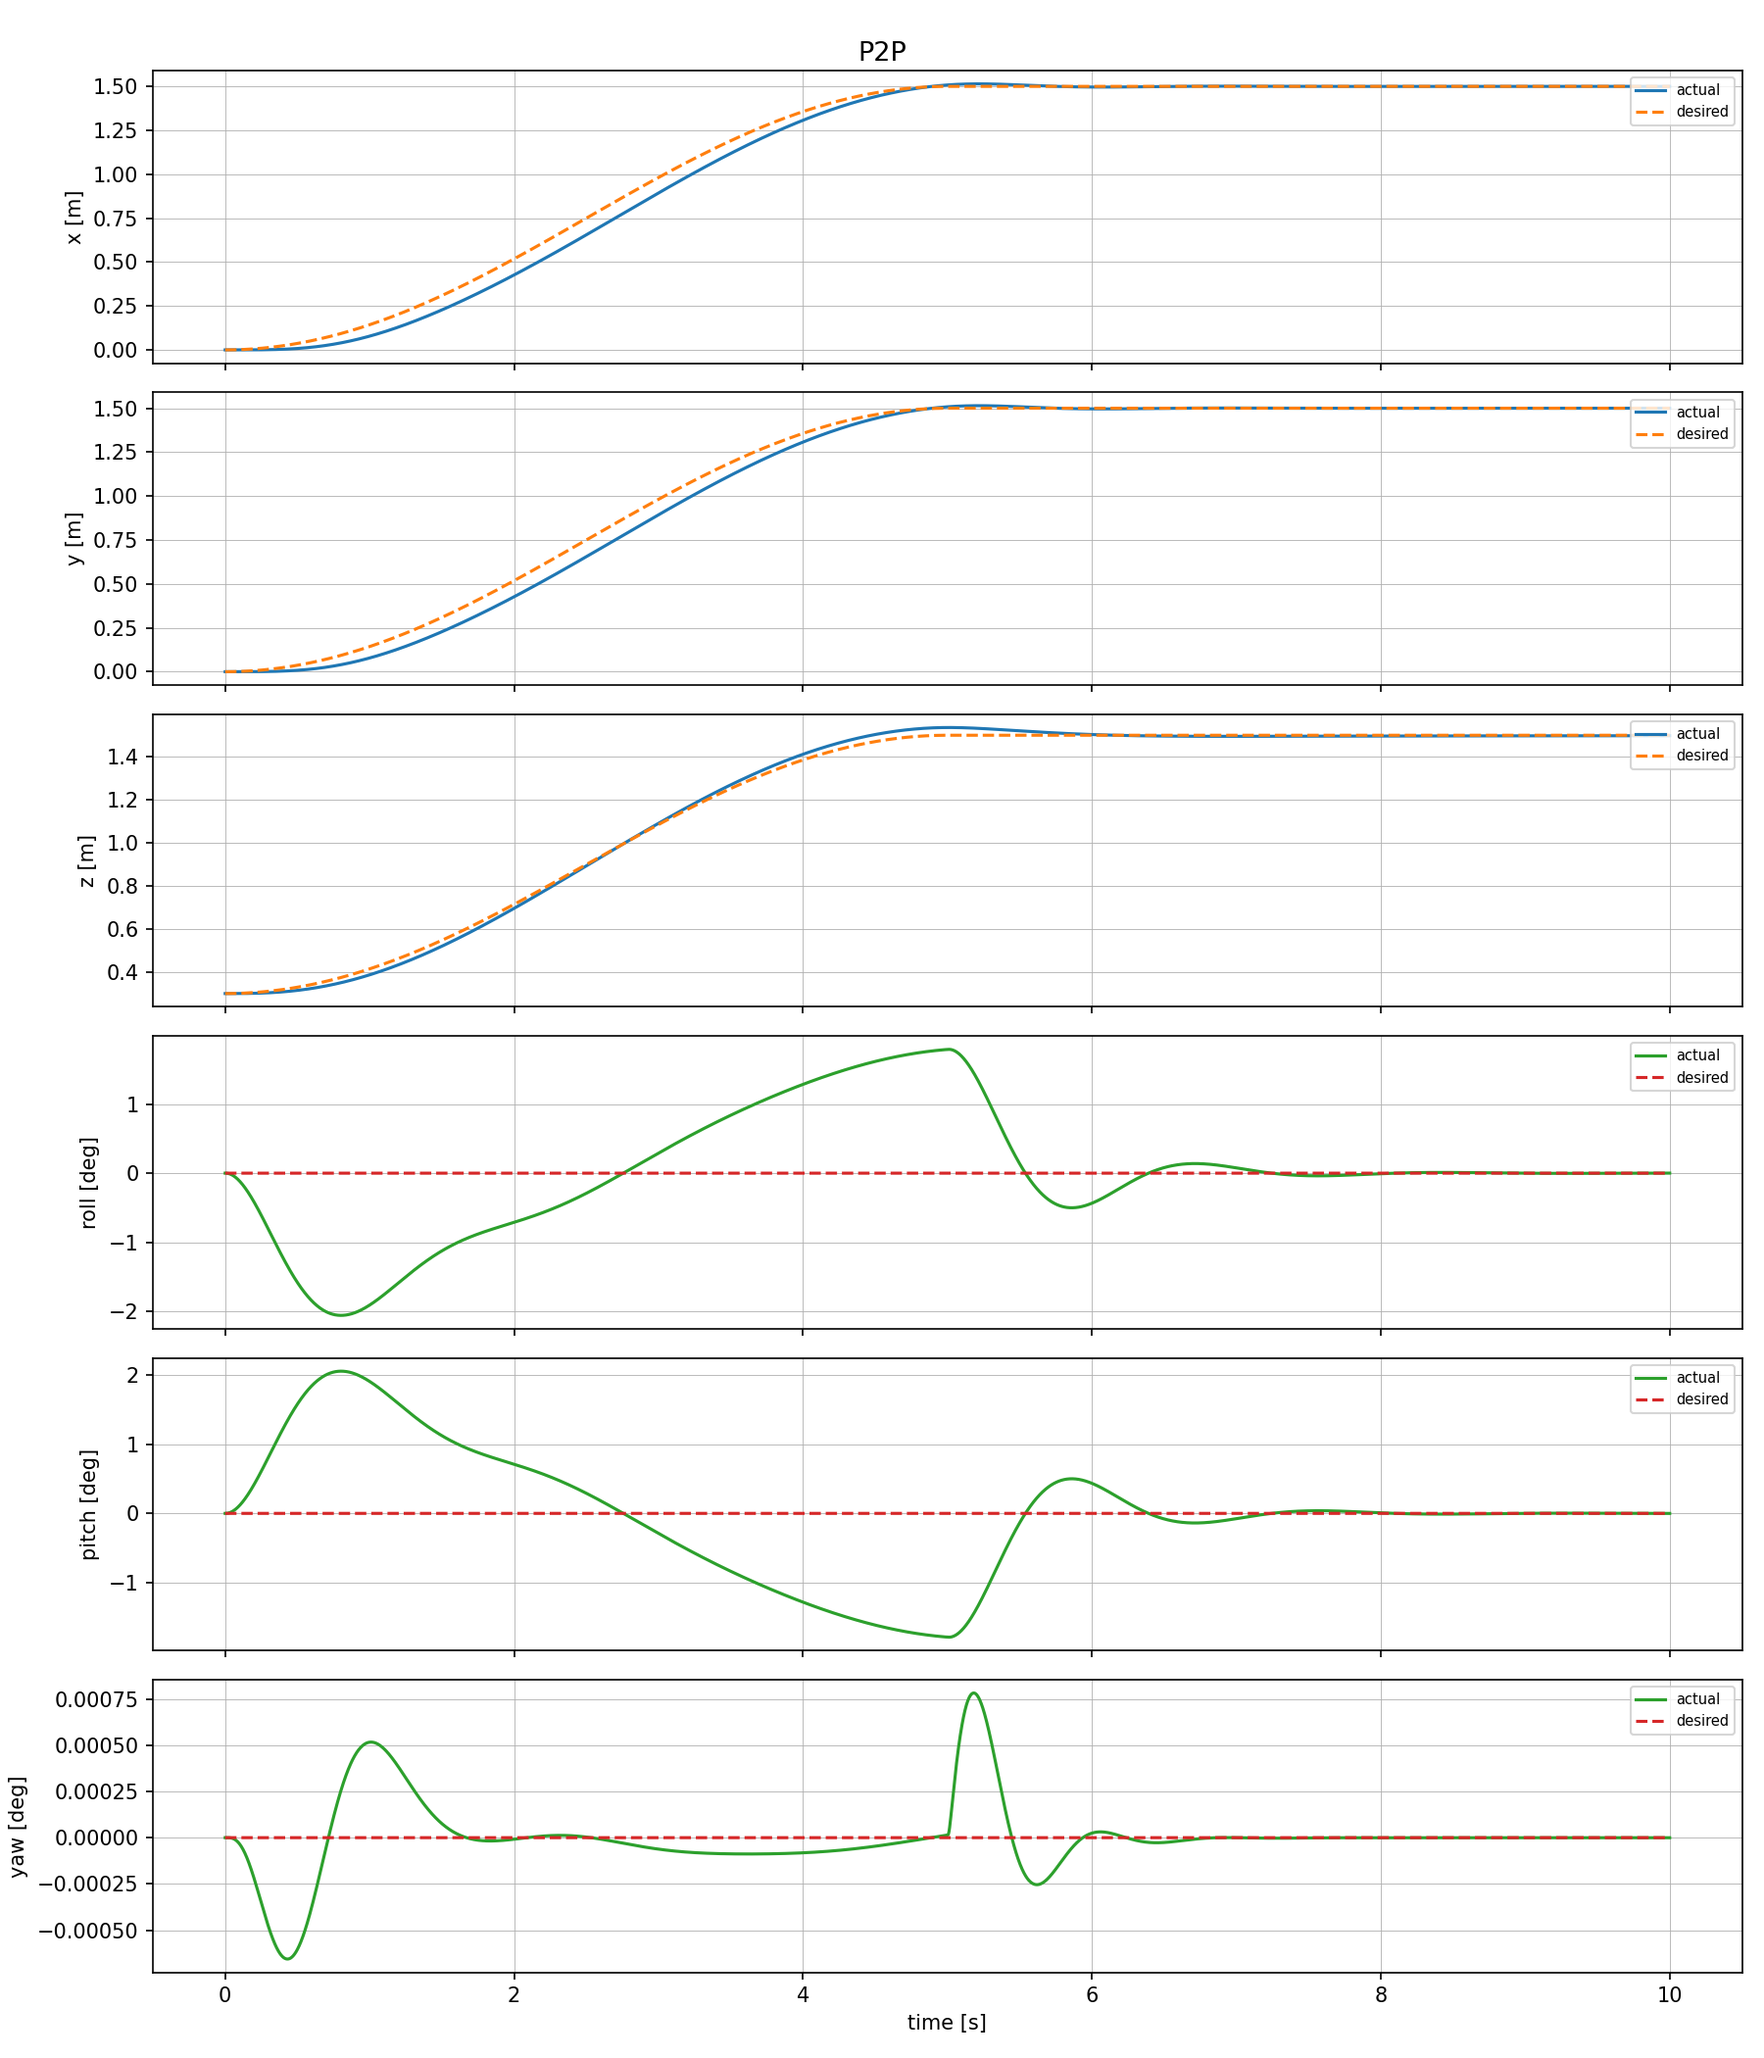
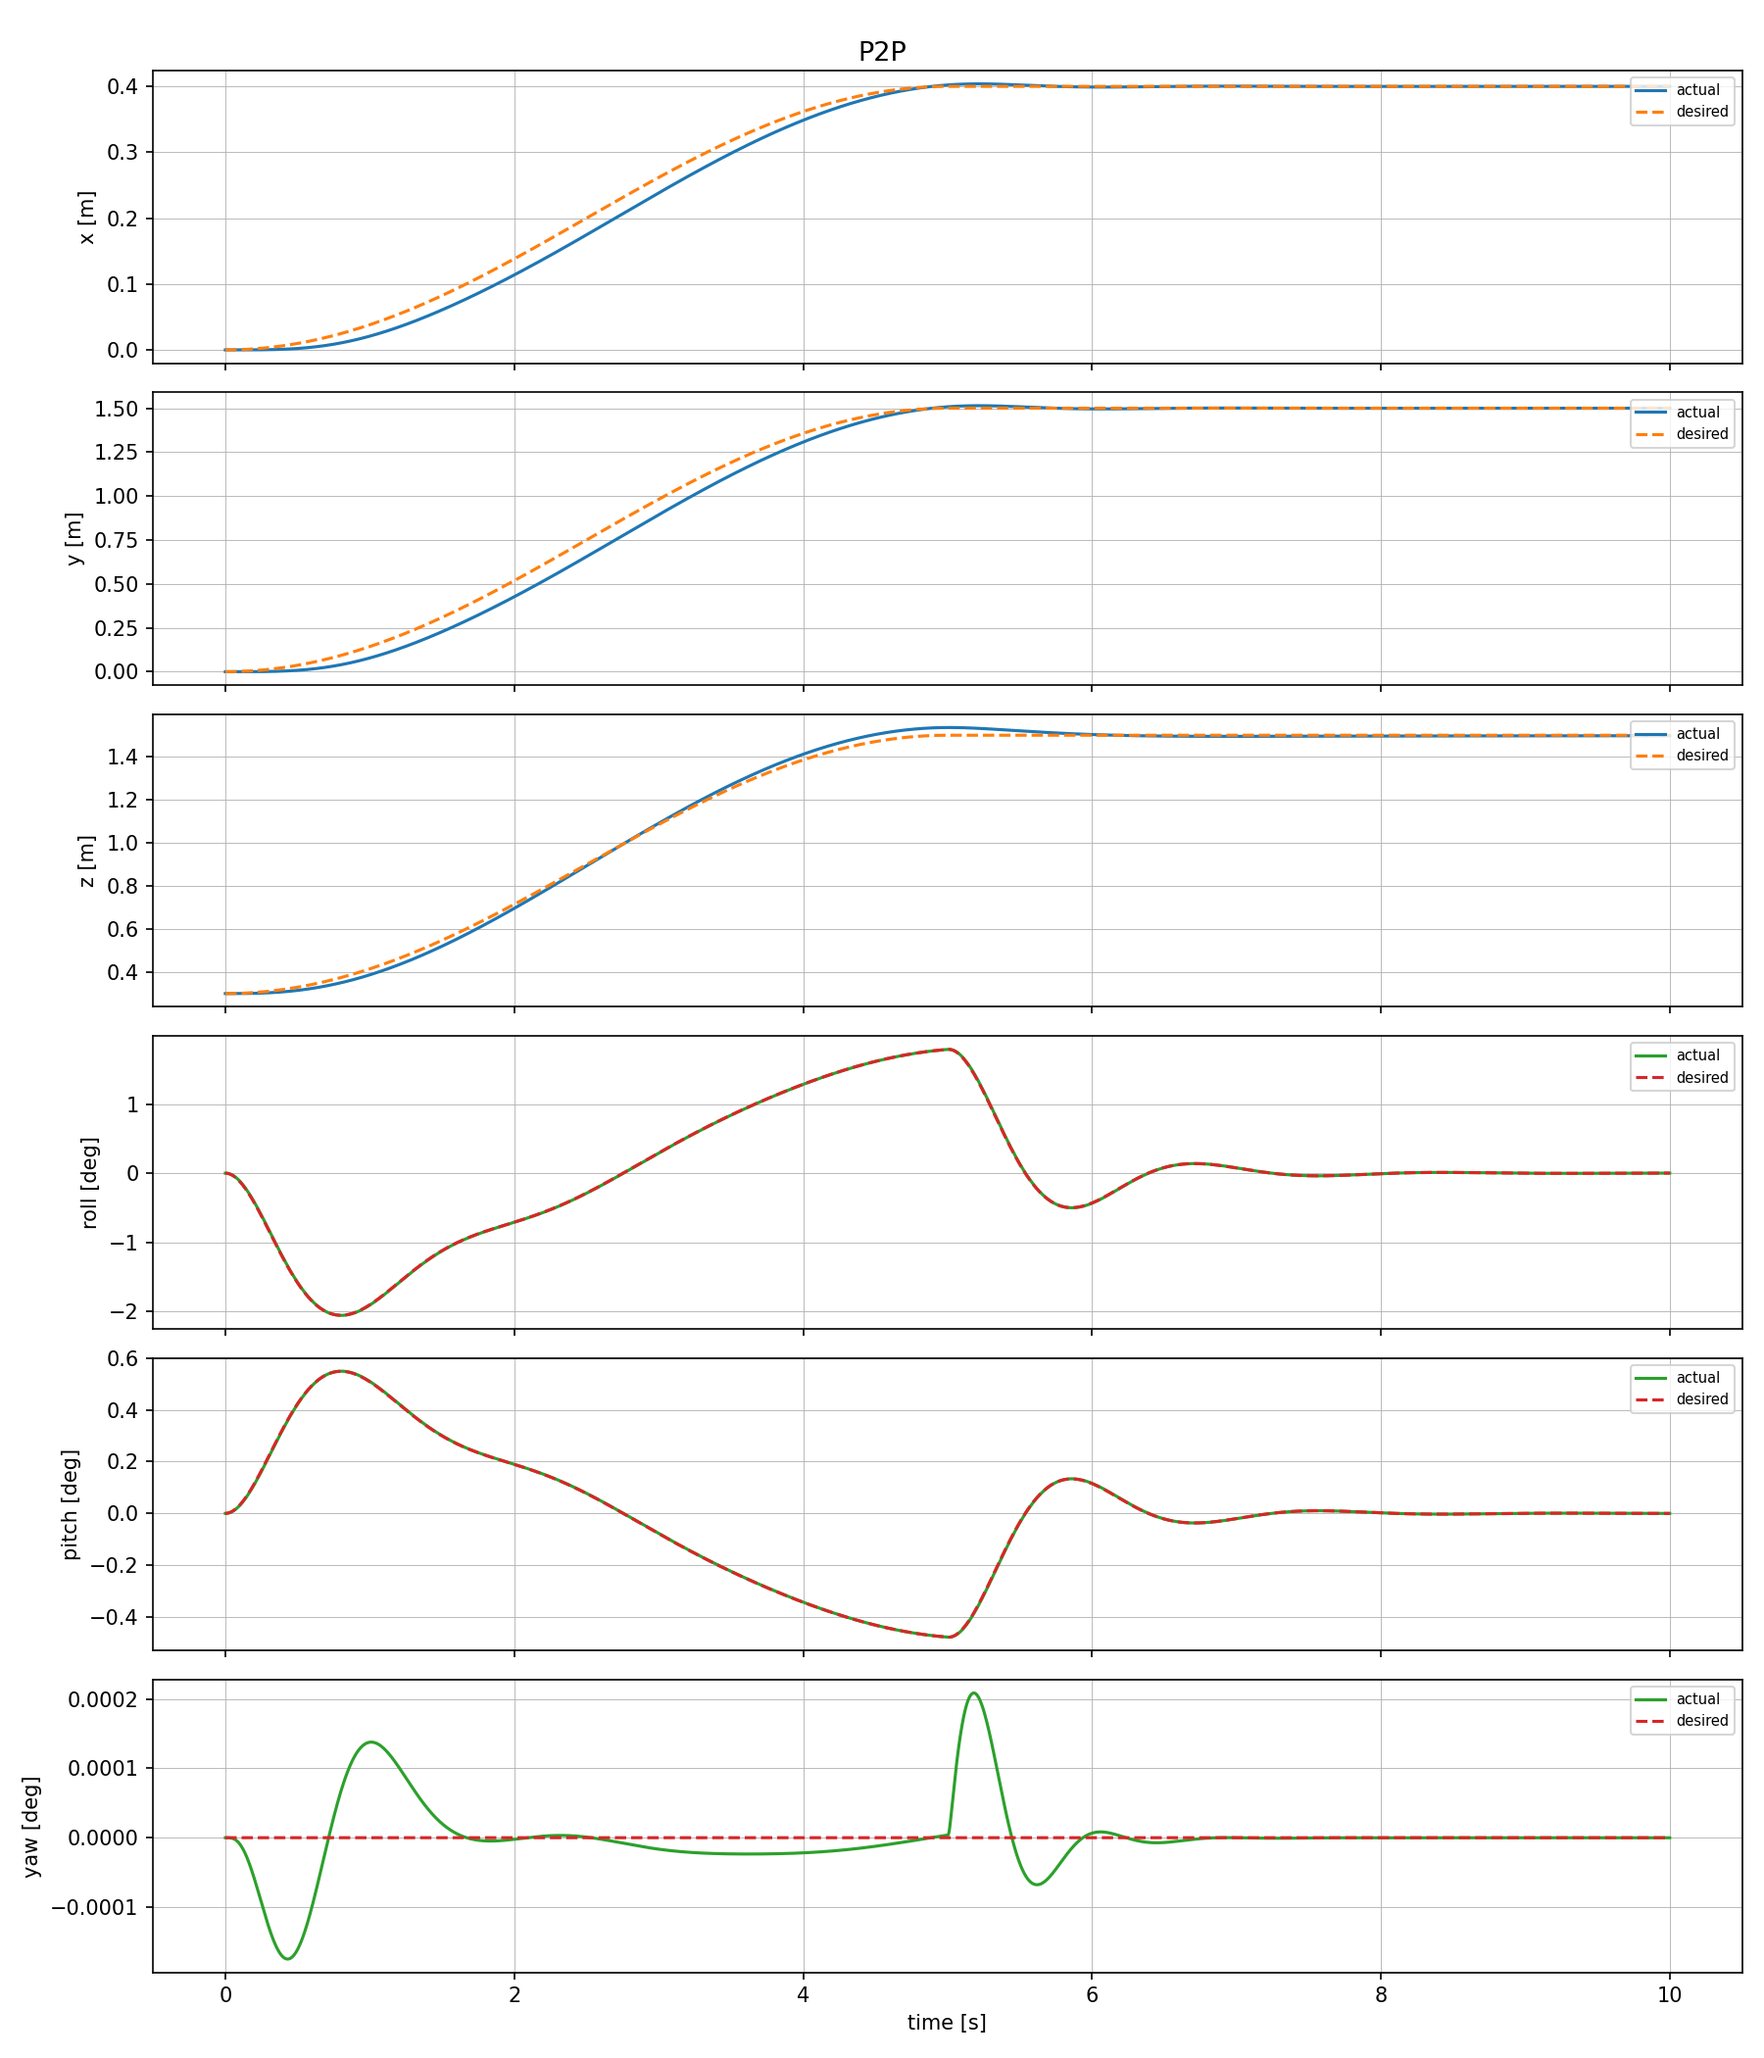
pid ok

diff --git a/demo/grasp_task.py b/demo/grasp_task.py
@@ -161,6 +161,62 @@ def apply_gripper(data, close=False):
         data.ctrl[CTRL_GL] = 0.0
         data.ctrl[CTRL_GR] = 0.0
 
+
+def plot_trajectories(log):
+    import matplotlib.pyplot as plt
+    import matplotlib.gridspec as gridspec
+
+    t     = np.array(log['t'])
+    drone = np.array(log['drone_pos'])
+    ee    = np.array(log['ee_pos'])
+    box   = np.array(log['box_pos'])
+
+    fig = plt.figure(figsize=(16, 8))
+    fig.suptitle('Grasp Task Trajectories', fontsize=13)
+    gs = gridspec.GridSpec(3, 2, figure=fig)
+
+    # 3-D trajectory (left column)
+    ax3d = fig.add_subplot(gs[:, 0], projection='3d')
+    if PLOT_DRONE:
+        ax3d.plot(drone[:, 0], drone[:, 1], drone[:, 2],
+                  color='tab:blue', linewidth=1.5, label='Drone base')
+        ax3d.scatter(*drone[0],  color='tab:blue', s=60, marker='o', zorder=5)
+        ax3d.scatter(*drone[-1], color='tab:blue', s=60, marker='x', zorder=5)
+    ax3d.plot(ee[:, 0], ee[:, 1], ee[:, 2],
+              color='tab:orange', linewidth=1.5, label='Gripper EE')
+    ax3d.scatter(*ee[0],  color='tab:orange', s=60, marker='o', zorder=5)
+    ax3d.scatter(*ee[-1], color='tab:orange', s=60, marker='x', zorder=5)
+    ax3d.plot(box[:, 0], box[:, 1], box[:, 2],
+              color='tab:green', linewidth=1.2, linestyle='--', label='Box')
+    ax3d.set_xlabel('x [m]')
+    ax3d.set_ylabel('y [m]')
+    ax3d.set_zlabel('z [m]')
+    ax3d.legend(fontsize=8)
+    ax3d.set_title('3D Trajectory  (o=start  x=end)')
+
+    # Time series (right column)
+    labels = ['x [m]', 'y [m]', 'z [m]']
+    for i in range(3):
+        ax = fig.add_subplot(gs[i, 1])
+        if PLOT_DRONE:
+            ax.plot(t, drone[:, i], color='tab:blue',   linewidth=1.2, label='Drone base')
+        ax.plot(t, ee[:, i],    color='tab:orange', linewidth=1.2, label='Gripper EE')
+        ax.plot(t, box[:, i],   color='tab:green',  linewidth=1.2, linestyle='--', label='Box')
+        ax.set_ylabel(labels[i])
+        ax.legend(fontsize=7, loc='upper right')
+        ax.grid(True, linewidth=0.4)
+        if i == 2:
+            ax.set_xlabel('time [s]')
+
+    plt.tight_layout()
+    out_path = os.path.join(os.path.dirname(__file__), 'grasp_trajectory.png')
+    plt.savefig(out_path, dpi=150)
+    print(f'Trajectory plot saved → {out_path}')
+    try:
+        plt.show()
+    except Exception:
+        pass
+
 # ---------------------------------------------------------------------------
 # Phase timing
 # ---------------------------------------------------------------------------
@@ -195,8 +251,28 @@ HOVER = {
 BOX_TARGET = np.array([0.40, 0.0, 1.125])
 
 # ---------------------------------------------------------------------------
+# Plot flags
+# ---------------------------------------------------------------------------
+PLOT_DRONE = False    # set False to hide drone base trajectory from plots
+
+# ---------------------------------------------------------------------------
 # Main
 # ---------------------------------------------------------------------------
+
+GAINS = dict(
+    kp_z    = 10.0,
+    ki_z    =  2.0,
+    kd_z    =  6.0,
+    kp_xy   =  5.5,
+    kd_xy   =  1.0,
+    kp_rp   =  10.0,
+    ki_rp   =  4.5,
+    kd_rp   =  2.5,
+    kp_yaw  =  5.0,
+    ki_yaw  =  0.2,
+    kd_yaw  =  1.5,
+)
+
 
 def run_grasp():
     model, data = load_grasp_scene()
@@ -209,7 +285,7 @@ def run_grasp():
     total_mass = sum(model.body_mass[i] for i in robot_body_ids)
     print(f'Robot mass: {total_mass:.3f} kg  (mg = {total_mass*9.81:.2f} N)')
 
-    ctrl = DroneController(mass=total_mass)
+    ctrl = DroneController(mass=total_mass, **GAINS)
     dt = model.opt.timestep
 
     # Reset — place drone on the ground
@@ -241,8 +317,12 @@ def run_grasp():
 
         t0_wall = time.perf_counter()
         t0_sim = data.time
-        sim_duration = 34.0
+        sim_duration = 17.0 # 34.0
         _retract_start = np.array([0.0, 0.0])
+
+        # Trajectory logging
+        ee_site_id = mujoco.mj_name2id(model, mujoco.mjtObj.mjOBJ_SITE, 'end_effector')
+        log = {'t': [], 'drone_pos': [], 'ee_pos': [], 'box_pos': []}
 
         while data.time - t0_sim < sim_duration:
             if not viewer.is_running():
@@ -271,6 +351,12 @@ def run_grasp():
 
             st = get_grasp_state(model, data)
             phase_dt = t - phase_t0
+
+            # Record trajectory
+            log['t'].append(t)
+            log['drone_pos'].append(st['pos'].copy())
+            log['ee_pos'].append(data.site_xpos[ee_site_id].copy())
+            log['box_pos'].append(get_box_pos(model, data))
 
             # --- Phase logic ---
             gripper_close = False
@@ -368,6 +454,8 @@ def run_grasp():
         print('Close viewer to exit.')
         while viewer.is_running():
             time.sleep(0.05)
+
+    plot_trajectories(log)
 
 
 if __name__ == '__main__':

diff --git a/basic/pid_tuning.py b/basic/pid_tuning.py
@@ -31,10 +31,10 @@ GAINS = dict(
     kp_z    = 10.0,
     ki_z    =  2.0,
     kd_z    =  6.0,
-    kp_xy   = 15.5,
-    kd_xy   =  3.0,
-    kp_rp   =  9.0,
-    ki_rp   =  0.5,
+    kp_xy   =  5.5,
+    kd_xy   =  1.0,
+    kp_rp   =  10.0,
+    ki_rp   =  4.5,
     kd_rp   =  2.5,
     kp_yaw  =  5.0,
     ki_yaw  =  0.2,
@@ -45,9 +45,10 @@ GAINS = dict(
 #  POINT-TO-POINT CONFIG
 # ===========================================================================
 P2P_START    = np.array([0.0, 0.0, 0.3])   # initial hover position  [m]
-P2P_TARGET   = np.array([1.5, 0.0, 1.5])   # desired target position [m]
-P2P_DURATION = 10.0                          # seconds to hold target after arrival
+P2P_TARGET   = np.array([0.4, 0.1, 1.5])   # desired target position [m]
+P2P_DURATION = 5.0                          # seconds to hold target after arrival
 P2P_RAMP     = 5.0                           # cosine ramp duration [s]
+P2P_YAW_TARGET = np.deg2rad(0.0)           # desired yaw at target [rad]  (0 = no yaw)
 
 # ===========================================================================
 #  FIGURE-8 CONFIG
@@ -58,6 +59,7 @@ FIG8_AMP_Y   = 0.0                           # y amplitude (0 → figure-8 in xz
 FIG8_AMP_Z   = 0.6                           # z amplitude [m]
 FIG8_PERIOD  = 12.0                          # one full cycle [s]
 FIG8_DURATION= 36.0                          # total run time [s]
+FIG8_YAW_AMP = np.deg2rad(30.0)             # yaw sine amplitude [rad]  (0 = no yaw)
 
 # ===========================================================================
 #  LOGGING / DISPLAY
@@ -99,13 +101,13 @@ def make_log():
     return {'t': [], 'pos': [], 'pos_des': [], 'rpy': [], 'rpy_des': []}
 
 
-def log_step(log, t, x, pos_des, yaw_des=0.0):
+def log_step(log, t, x, pos_des, ctrl, yaw_des=0.0):
     roll, pitch, yaw = quat_to_euler_zyx(x[6:10])
     log['t'].append(t)
     log['pos'].append(x[:3].copy())
     log['pos_des'].append(pos_des.copy())
     log['rpy'].append(np.array([roll, pitch, yaw]))
-    log['rpy_des'].append(np.array([0.0, 0.0, yaw_des]))
+    log['rpy_des'].append(np.array([ctrl.roll_des, ctrl.pitch_des, yaw_des]))
 
 
 def plot_results(log, title='PID Tuning'):
@@ -188,13 +190,14 @@ def run_p2p(model, data, ctrl, dt):
             t   = data.time - t0_sim
             s   = smooth_step(t, 0.0, P2P_RAMP)
             pos_des = P2P_START + s * (P2P_TARGET - P2P_START)
+            yaw_des = s * P2P_YAW_TARGET
 
             x   = get_state(model, data)
-            T, tau = ctrl.compute(x[:3], x[3:6], x[6:10], x[10:13], pos_des, 0.0, dt)
+            T, tau = ctrl.compute(x[:3], x[3:6], x[6:10], x[10:13], pos_des, yaw_des, dt)
             apply_platform_control(data, T, tau)
             set_arm(data, model)
             mujoco.mj_step(model, data)
-            log_step(log, t, x, pos_des)
+            log_step(log, t, x, pos_des, ctrl, yaw_des)
 
             # console log
             if t - last_log >= LOG_INTERVAL:
@@ -255,17 +258,19 @@ def run_figure8(model, data, ctrl, dt):
                 x = get_state(model, data)
                 s = smooth_step(t, 0.0, RAMP_DUR)
                 pos_des = x[:3] + s * (FIG8_CENTRE - x[:3])
+                yaw_des = 0.0
             else:
                 # Figure-8 tracking
                 t_traj  = t - RAMP_DUR
                 pos_des = figure8_setpoint(t_traj)
+                yaw_des = FIG8_YAW_AMP * np.sin(2.0 * np.pi * t_traj / FIG8_PERIOD)
 
             x   = get_state(model, data)
-            T, tau = ctrl.compute(x[:3], x[3:6], x[6:10], x[10:13], pos_des, 0.0, dt)
+            T, tau = ctrl.compute(x[:3], x[3:6], x[6:10], x[10:13], pos_des, yaw_des, dt)
             apply_platform_control(data, T, tau)
             set_arm(data, model)
             mujoco.mj_step(model, data)
-            log_step(log, t, x, pos_des)
+            log_step(log, t, x, pos_des, ctrl, yaw_des)
 
             # RMSE accumulation (only during tracking phase)
             if t >= RAMP_DUR:

diff --git a/basic/pid_tuning_quad.py b/basic/pid_tuning_quad.py
@@ -43,7 +43,7 @@ GAINS = dict(
 #  POINT-TO-POINT CONFIG
 # ===========================================================================
 P2P_START    = np.array([0.0, 0.0, 0.3])
-P2P_TARGET   = np.array([1.5, 1.5, 1.5])
+P2P_TARGET   = np.array([0.4, 1.5, 1.5])
 P2P_DURATION = 5.0   # seconds to hold target
 P2P_RAMP     = 5.0    # cosine ramp duration [s]
 
@@ -100,13 +100,13 @@ def make_log():
     return {'t': [], 'pos': [], 'pos_des': [], 'rpy': [], 'rpy_des': []}
 
 
-def log_step(log, t, x, pos_des, yaw_des=0.0):
+def log_step(log, t, x, pos_des, ctrl, yaw_des=0.0):
     roll, pitch, yaw = quat_to_euler_zyx(x[6:10])
     log['t'].append(t)
     log['pos'].append(x[:3].copy())
     log['pos_des'].append(pos_des.copy())
     log['rpy'].append(np.array([roll, pitch, yaw]))
-    log['rpy_des'].append(np.array([0.0, 0.0, yaw_des]))
+    log['rpy_des'].append(np.array([ctrl.roll_des, ctrl.pitch_des, yaw_des]))
 
 
 def plot_results(log, title='Quad PID'):
@@ -194,7 +194,7 @@ def run_p2p(model, data, ctrl, dt):
             T, tau = ctrl.compute(x[:3], x[3:6], x[6:10], x[10:13], pos_des, 0.0, dt)
             apply_platform_control(data, model, T, tau)
             mujoco.mj_step(model, data)
-            log_step(log, t, x, pos_des)
+            log_step(log, t, x, pos_des, ctrl)
 
             if t - last_log >= LOG_INTERVAL:
                 err   = np.linalg.norm(x[:3] - pos_des)
@@ -253,7 +253,7 @@ def run_figure8(model, data, ctrl, dt):
             T, tau = ctrl.compute(x[:3], x[3:6], x[6:10], x[10:13], pos_des, 0.0, dt)
             apply_platform_control(data, model, T, tau)
             mujoco.mj_step(model, data)
-            log_step(log, t, x, pos_des)
+            log_step(log, t, x, pos_des, ctrl)
 
             if t >= RAMP_DUR:
                 rmse_sum += np.sum((x[:3] - pos_des) ** 2)

diff --git a/basic/pid_controller.py b/basic/pid_controller.py
@@ -106,6 +106,8 @@ class DroneController:
     def reset(self):
         for pid in (self.pid_z, self.pid_roll, self.pid_pitch, self.pid_yaw):
             pid.reset()
+        self.roll_des  = 0.0
+        self.pitch_des = 0.0
 
     def compute(self, pos, vel, q_xyzw, omega, pos_des, yaw_des, dt):
         """Compute control output.
@@ -148,6 +150,9 @@ class DroneController:
         # Small-angle: a = g * tilt_angle
         pitch_des = np.clip( a_bx / self.g, -self.tilt_limit, self.tilt_limit)
         roll_des  = np.clip(-a_by / self.g, -self.tilt_limit, self.tilt_limit)
+        # Store for external logging
+        self.roll_des  = roll_des
+        self.pitch_des = pitch_des
 
         # ---- Attitude: PID → body torques ----
         tau_x = self.pid_roll.update( roll_des  - roll,               dt)
